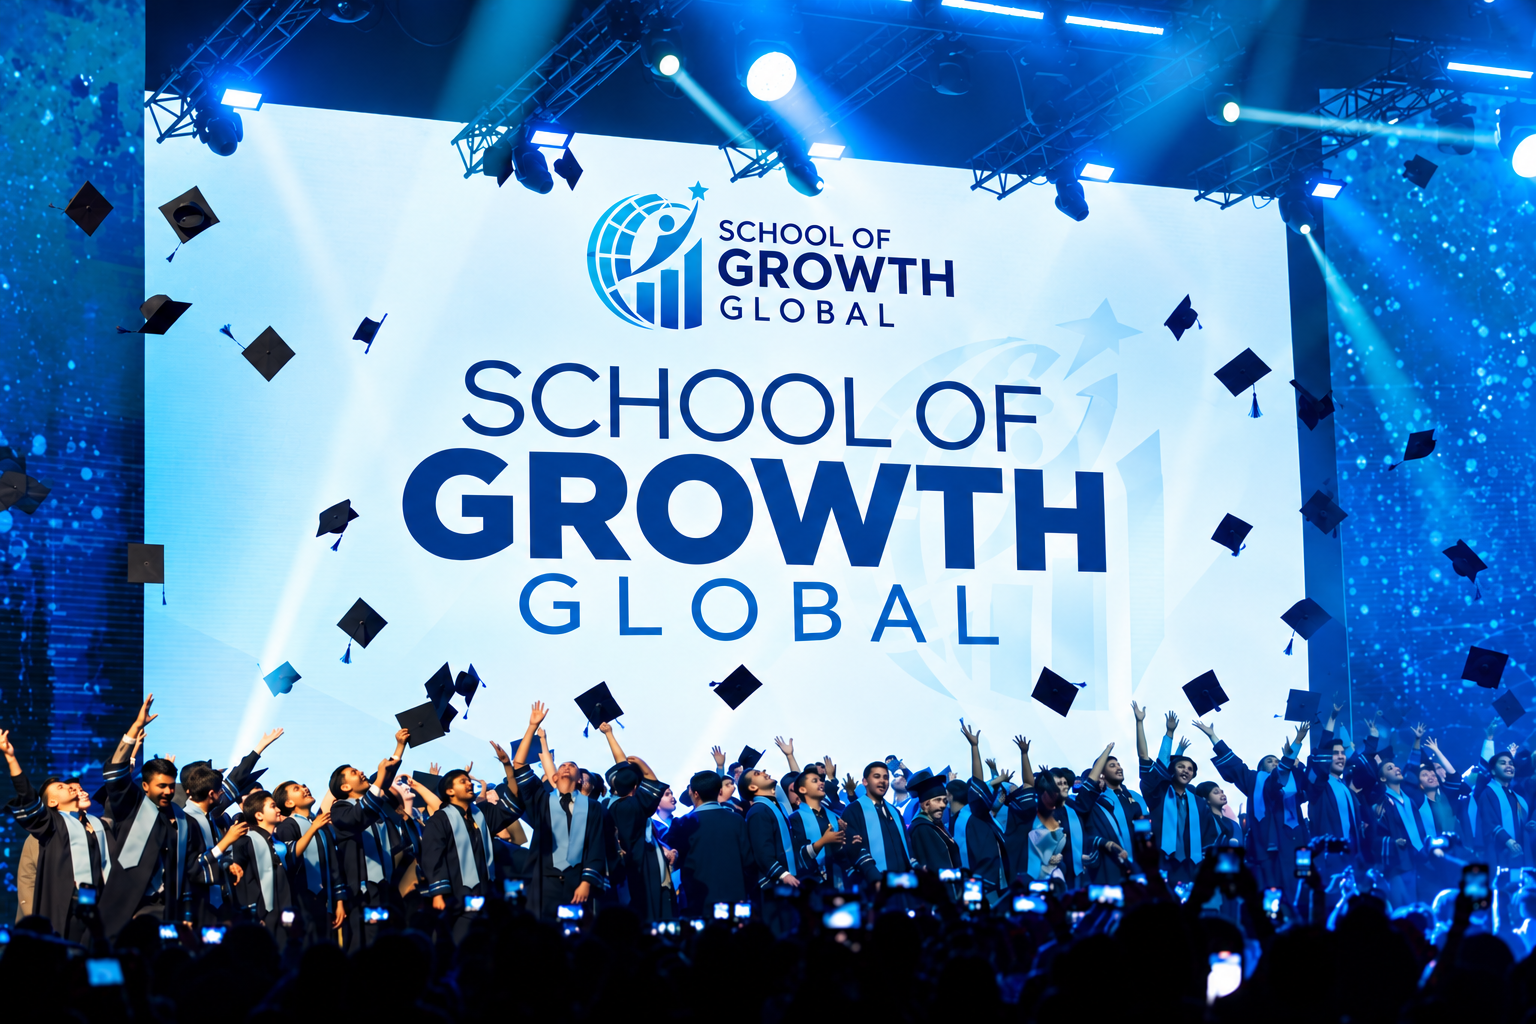
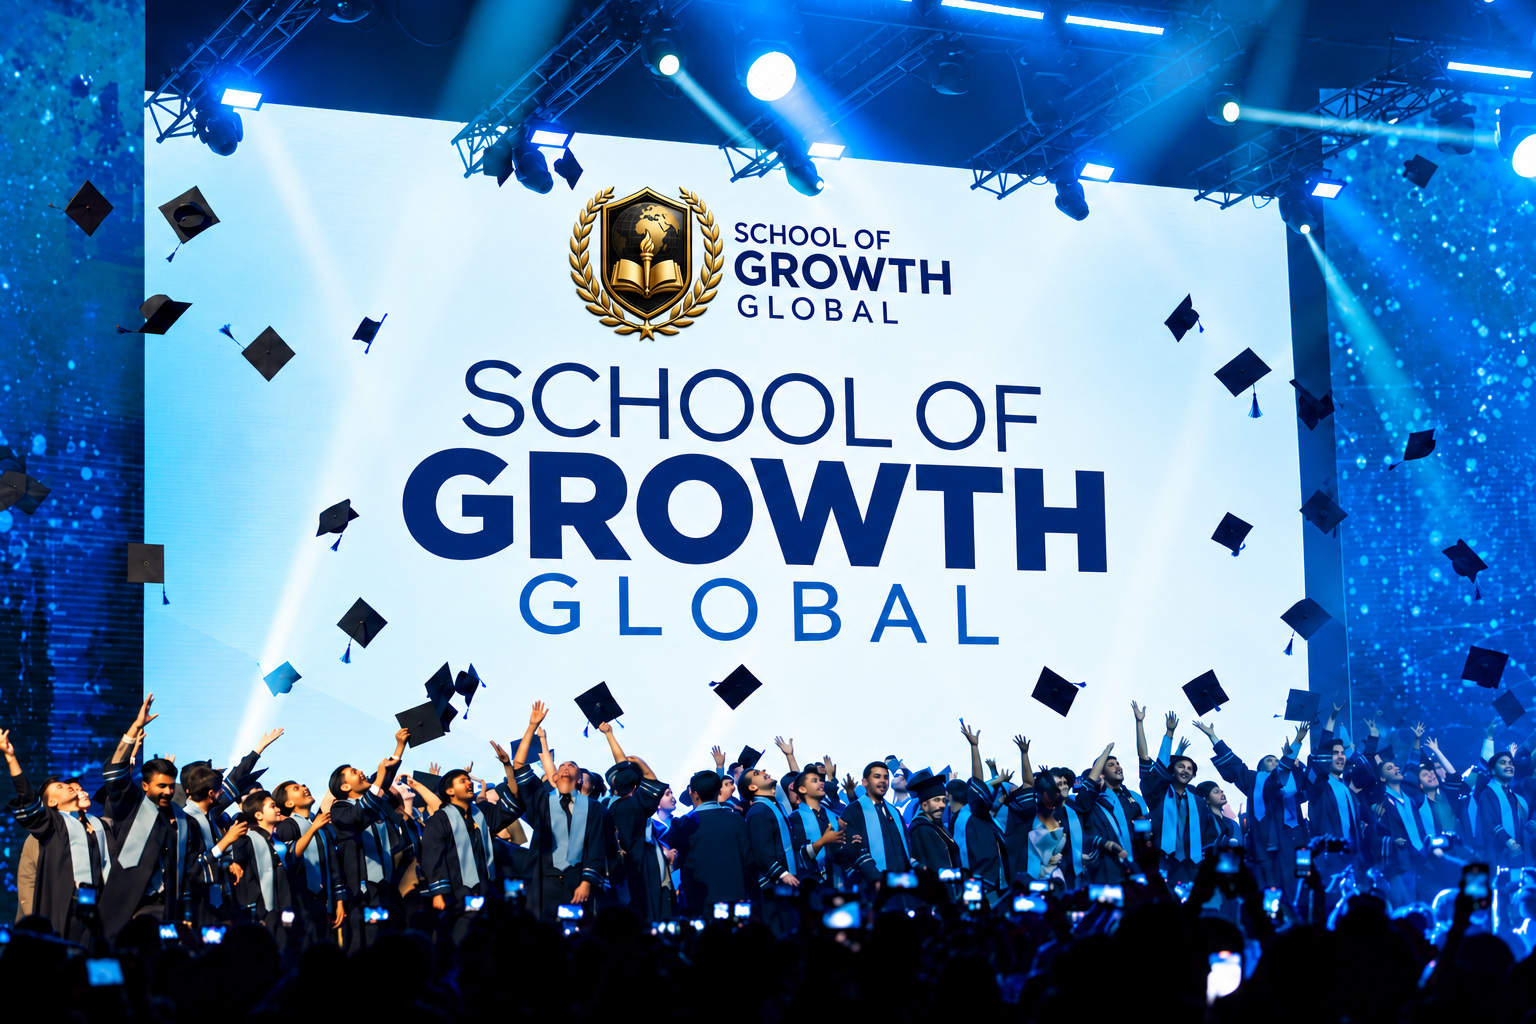
Restore missing faculties and correct conference branding
Restore Governance and Relationships & Family as their own faculty groups while preserving school numbers, course IDs and enrolment links. Show all schools by default, add direct faculty navigation and display earlier school names.

Replace the conference image's incorrect emblem with the supplied official gold crest and refresh its image URL.

Validated with catalogue regression tests, TypeScript, a production build and desktop/mobile browser checks.

diff --git a/src/views/SchoolsFacultiesView.tsx b/src/views/SchoolsFacultiesView.tsx
@@ -13,15 +13,19 @@ function SchoolDetails({ school }: { school: FacultySchool }) {
           {note}
         </p>
       ))}
-      <p className="mb-3 text-xs font-semibold text-amber-800">Courses and subject areas</p>
-      <ol className="grid list-decimal gap-2 pl-5 text-sm leading-6 text-slate-600 marker:text-amber-700">
-        {school.courses.map(course => {
-          const entry = getAcademicCourse(course);
-          return <li key={entry?.key ?? course} data-academic-course={entry?.key} className="pl-1 [overflow-wrap:anywhere]">
-            {entry?.href ? <Link to={entry.href} className="font-semibold text-amber-900 underline decoration-amber-300 underline-offset-4 hover:text-amber-700">{course}</Link> : course}
-          </li>;
-        })}
-      </ol>
+      {school.courses.length > 0 ? (
+        <>
+          <p className="mb-3 text-xs font-semibold text-amber-800">Courses and subject areas</p>
+          <ol className="grid list-decimal gap-2 pl-5 text-sm leading-6 text-slate-600 marker:text-amber-700">
+            {school.courses.map(course => {
+              const entry = getAcademicCourse(course);
+              return <li key={entry?.key ?? course} data-academic-course={entry?.key} className="pl-1 [overflow-wrap:anywhere]">
+                {entry?.href ? <Link to={entry.href} className="font-semibold text-amber-900 underline decoration-amber-300 underline-offset-4 hover:text-amber-700">{course}</Link> : course}
+              </li>;
+            })}
+          </ol>
+        </>
+      ) : <p className="text-sm leading-6 text-slate-600">Course information for this school is being prepared.</p>}
       {school.id === 'leadership' && <Link to="/courses/leadership" className="mt-4 inline-flex min-h-11 items-center gap-2 text-sm font-bold text-amber-800 hover:underline">Individual leadership course prices <ArrowRight className="h-4 w-4 shrink-0" aria-hidden="true" /></Link>}
     </div>
   );
@@ -31,7 +35,7 @@ export const SchoolsFacultiesView: React.FC<{ embedded?: boolean; searchQuery?: 
   const [localQuery, setLocalQuery] = useState('');
   const query = searchQuery ?? localQuery;
   const setQuery = onSearchQueryChange ?? setLocalQuery;
-  const [openFaculty, setOpenFaculty] = useState(embedded ? 0 : FACULTIES[0].number);
+  const [openFaculties, setOpenFaculties] = useState<number[]>(() => FACULTIES.map(faculty => faculty.number));
   const [openSchool, setOpenSchool] = useState<number | null>(null);
   const normalizedQuery = query.trim().toLowerCase();
 
@@ -41,6 +45,7 @@ export const SchoolsFacultiesView: React.FC<{ embedded?: boolean; searchQuery?: 
     })).filter(faculty => faculty.schools.length > 0),
     [normalizedQuery, schoolId]
   );
+  const filtering = Boolean(normalizedQuery || schoolId);
 
   return (
     <div className="min-h-screen bg-slate-50 text-slate-900">
@@ -88,15 +93,42 @@ export const SchoolsFacultiesView: React.FC<{ embedded?: boolean; searchQuery?: 
         </div>
       </section>
 
+      {visibleFaculties.length > 0 && <section className="border-b border-slate-200 bg-white" aria-label="Faculty directory navigation">
+        <div className={`mx-auto max-w-7xl py-6 ${embedded ? '' : 'px-4 sm:px-6 lg:px-8'}`}>
+          <p className="text-sm font-semibold text-slate-950">Browse faculties</p>
+          <nav aria-label="Browse faculties" data-faculty-index className="mt-4 grid gap-x-8 gap-y-3 sm:grid-cols-2 lg:grid-cols-3">
+            {visibleFaculties.map(faculty => <a
+              key={faculty.number}
+              href={`#faculty-${faculty.number}`}
+              onClick={() => setOpenFaculties(current => current.includes(faculty.number) ? current : [...current, faculty.number])}
+              className="flex min-h-11 items-start gap-3 border-l-2 border-amber-300 py-1 pl-3 text-sm leading-6 text-slate-700 hover:border-amber-500 hover:text-amber-800 focus-visible:outline-2 focus-visible:outline-offset-4 focus-visible:outline-amber-500"
+            >
+              <span className="shrink-0 font-mono text-xs font-bold leading-6 text-[#ff9700]">{String(faculty.displayNumber ?? faculty.number).padStart(2, '0')}</span>
+              <span className="min-w-0 capitalize [overflow-wrap:anywhere]">{faculty.title.toLowerCase()}</span>
+            </a>)}
+          </nav>
+          {!filtering && <div className="mt-5 flex flex-wrap gap-3 border-t border-slate-100 pt-4">
+            <button type="button" onClick={() => setOpenFaculties(FACULTIES.map(faculty => faculty.number))}
+              disabled={visibleFaculties.every(faculty => openFaculties.includes(faculty.number))}
+              className="min-h-11 border border-amber-300 bg-amber-50 px-4 py-2 text-sm font-semibold text-amber-900 hover:bg-amber-100 disabled:cursor-default disabled:opacity-50">Show all schools</button>
+            <button type="button" onClick={() => setOpenFaculties([])} disabled={openFaculties.length === 0}
+              className="min-h-11 border border-slate-300 bg-white px-4 py-2 text-sm font-semibold text-slate-700 hover:bg-slate-50 disabled:cursor-default disabled:opacity-50">Collapse faculties</button>
+          </div>}
+        </div>
+      </section>}
+
       <div data-academic-directory className={`mx-auto max-w-7xl space-y-4 py-10 sm:py-14 ${embedded ? '' : 'px-4 sm:px-6 lg:px-8'}`}>
         {visibleFaculties.map((faculty) => {
-          const isOpen = openFaculty === faculty.number || Boolean(normalizedQuery) || Boolean(schoolId);
+          const isOpen = openFaculties.includes(faculty.number) || filtering;
           return (
-            <section key={faculty.number} data-faculty-number={faculty.number} data-faculty-display-number={faculty.displayNumber ?? faculty.number} className="overflow-hidden border border-slate-200 bg-white shadow-[0_8px_26px_rgba(15,23,42,0.04)]">
+            <section id={`faculty-${faculty.number}`} key={faculty.number} data-faculty-number={faculty.number} data-faculty-display-number={faculty.displayNumber ?? faculty.number} className="scroll-mt-24 overflow-hidden border border-slate-200 bg-white shadow-[0_8px_26px_rgba(15,23,42,0.04)]">
+              <h3>
               <button
                 type="button"
-                onClick={() => setOpenFaculty(isOpen ? 0 : faculty.number)}
+                onClick={() => setOpenFaculties(current => current.includes(faculty.number) ? current.filter(number => number !== faculty.number) : [...current, faculty.number])}
                 aria-expanded={isOpen}
+                aria-controls={`faculty-${faculty.number}-schools`}
+                disabled={filtering}
                 className="flex w-full items-center justify-between gap-5 px-4 py-5 text-left transition hover:bg-amber-50/40 sm:px-6 sm:py-6"
               >
                 <span className="flex min-w-0 items-start gap-3 sm:gap-4">
@@ -110,31 +142,34 @@ export const SchoolsFacultiesView: React.FC<{ embedded?: boolean; searchQuery?: 
                 </span>
                 <ChevronDown className={`h-5 w-5 shrink-0 text-amber-700 transition-transform ${isOpen ? 'rotate-180' : ''}`} />
               </button>
+              </h3>
 
               {isOpen && (
-                <div className="border-t border-slate-200 px-3 py-3 sm:px-5 sm:py-5">
+                <div id={`faculty-${faculty.number}-schools`} className="border-t border-slate-200 px-3 py-3 sm:px-5 sm:py-5">
                   <p className="mb-5 text-sm leading-6 text-slate-600"><strong className="font-semibold text-slate-800">Purpose: </strong>{faculty.purpose}</p>
                   <div className="grid items-start gap-3 lg:grid-cols-2">
                     {faculty.schools.map((school) => {
                       const schoolOpen = openSchool === school.number || Boolean(normalizedQuery) || schoolId === school.id;
-                      const hasDetails = Boolean(
-                        school.notes.length || school.courses.length
-                      );
+                      const alternateNames = school.aliases.filter(name => name !== school.title);
                       return (
                         <div key={school.number} data-school-id={school.id} className="min-w-0 overflow-hidden border border-slate-200 bg-white">
                           <button
                             type="button"
                             onClick={() => setOpenSchool(schoolOpen ? null : school.number)}
                             aria-expanded={schoolOpen}
+                            aria-controls={`school-${school.id}-details`}
                             className="flex w-full items-center justify-between gap-4 px-4 py-4 text-left transition hover:bg-slate-50"
                           >
                             <span className="flex min-w-0 items-start gap-3">
                               <span className="font-mono text-[11px] text-amber-700">{String(school.number).padStart(2, '0')}</span>
-                              <span className="min-w-0 text-sm font-semibold leading-6 text-slate-800 [overflow-wrap:anywhere]">{school.title}</span>
+                              <span className="min-w-0 [overflow-wrap:anywhere]">
+                                <span className="block text-sm font-semibold leading-6 text-slate-800">{school.title}</span>
+                                {alternateNames.length > 0 && <span className="mt-1 block text-xs leading-5 text-slate-500">Also listed as: {alternateNames.join('; ')}</span>}
+                              </span>
                             </span>
-                            {hasDetails && <ChevronDown className={`h-4 w-4 shrink-0 text-slate-400 transition-transform ${schoolOpen ? 'rotate-180' : ''}`} />}
+                            <ChevronDown className={`h-4 w-4 shrink-0 text-slate-400 transition-transform ${schoolOpen ? 'rotate-180' : ''}`} />
                           </button>
-                          {schoolOpen && hasDetails && <SchoolDetails school={school} />}
+                          {schoolOpen && <div id={`school-${school.id}-details`}><SchoolDetails school={school} /></div>}
                         </div>
                       );
                     })}

diff --git a/src/lib/academicCatalogue.ts b/src/lib/academicCatalogue.ts
@@ -25,8 +25,8 @@ const destinations: Record<number, [number, string?]> = {
   7: [4], 8: [4, 'management-and-organizational-development'], 9: [7], 10: [4],
   11: [10], 12: [10], 13: [10], 14: [10], 15: [10], 16: [10],
   17: [10], 18: [10], 19: [10], 20: [10], 21: [10],
-  22: [8, 'governance-and-public-administration'], 23: [8], 24: [8], 25: [8], 26: [8],
-  27: [8, 'governance-and-public-administration'], 28: [8], 29: [8],
+  22: [12, 'governance-and-public-administration'], 23: [12], 24: [12], 25: [12], 26: [12],
+  27: [12, 'governance-and-public-administration'], 28: [12], 29: [12],
   30: [11], 31: [11], 32: [11], 33: [11],
   34: [2, 'entrepreneurship-and-business-creation'], 35: [2],
   36: [2, 'marketing-sales-and-business-development'], 37: [3],
@@ -35,8 +35,8 @@ const destinations: Record<number, [number, string?]> = {
   44: [4, 'human-resources-and-talent-management'], 45: [4, 'project-and-programme-management'],
   46: [7, 'communication-and-public-speaking'], 47: [5], 48: [1],
   49: [1, 'artificial-intelligence'], 50: [7, 'media-branding-and-public-relations'],
-  51: [6], 52: [6], 53: [6], 54: [4], 55: [4],
-  56: [6, 'emotional-intelligence-and-human-relations'], 57: [8],
+  51: [13], 52: [13], 53: [13], 54: [13], 55: [13],
+  56: [13, 'emotional-intelligence-and-human-relations'], 57: [8],
   58: [8, 'research-and-critical-thinking'], 59: [4], 60: [1], 61: [8], 62: [8],
 };
 
@@ -51,7 +51,21 @@ export function buildAcademicCatalogue() {
   for (const [number, title, purpose] of [
     [10, previous.faculties[2].title, 'Develop biblical leadership, ministry, discipleship and stewardship skills for responsible service, spiritual formation and community impact.'],
     [11, previous.faculties[4].title, 'Develop the capabilities to serve communities, lead humanitarian programmes and build accountable nonprofit organizations.'],
+    [12, previous.faculties[3].title, 'Develop public leaders, policymakers and administrators who strengthen governance, serve citizens and build accountable institutions.'],
+    [13, previous.faculties[7].title, 'Strengthen relationships, families and human development through social intelligence, responsible leadership and support across life stages.'],
   ] as const) faculties.push({ number, title, purpose, schools: [], aliases: [] });
+
+  // Restore these faculty headings without creating duplicate schools or
+  // changing the IDs and numbers used by existing courses and enrolments.
+  for (const [schoolId, facultyNumber] of [
+    ['governance-and-public-administration', 12],
+    ['emotional-intelligence-and-human-relations', 13],
+  ] as const) {
+    const currentFaculty = faculties.find(faculty => faculty.schools.some(school => school.id === schoolId))!;
+    const school = currentFaculty.schools.find(school => school.id === schoolId)!;
+    currentFaculty.schools = currentFaculty.schools.filter(school => school.id !== schoolId);
+    faculties.find(faculty => faculty.number === facultyNumber)!.schools.push(school);
+  }
 
   const schools = new Map(faculties.flatMap(faculty => faculty.schools.map(school => [school.id, school] as const)));
   const courses = new Map<string, AcademicCourse>();

diff --git a/src/lib/courseCatalogueRestoration.test.ts b/src/lib/courseCatalogueRestoration.test.ts
@@ -18,6 +18,30 @@ test('the restored directory includes the original Kingdom and humanitarian scho
   assert.ok(searchFacultyCatalogue('Refugee').length);
 });
 
+test('Governance has its own visible faculty with all of its earlier school names', () => {
+  const originalFaculty = original.faculties.find(faculty => faculty.title.startsWith('GOVERNANCE,'))!;
+  const restoredFaculty = FACULTIES.find(faculty => faculty.title === originalFaculty.title);
+  assert.ok(restoredFaculty, 'Governance must be a faculty heading, not only a search alias under Research');
+  for (const school of originalFaculty.schools) {
+    assert.ok(restoredFaculty.schools.some(entry => [entry.title, ...entry.aliases].includes(school.title)), school.title);
+  }
+  assert.ok(restoredFaculty.schools.some(school => school.id === 'governance-and-public-administration'));
+  for (const id of ['governance-001', 'governance-005', 'governance-013', 'governance-014', 'governance-015']) {
+    const course = ACADEMIC_COURSES.find(course => course.courseId === id);
+    assert.ok(course?.href?.includes(id), id);
+    assert.ok(restoredFaculty.schools.some(school => school.id === course.schoolId), id);
+  }
+});
+
+test('Relationships and Family has its own visible faculty with its earlier schools', () => {
+  const originalFaculty = original.faculties.find(faculty => faculty.title.startsWith('RELATIONSHIPS,'))!;
+  const restoredFaculty = FACULTIES.find(faculty => faculty.title === originalFaculty.title);
+  assert.ok(restoredFaculty, 'Relationships and Family must be a faculty heading, not hidden under Personal Growth or Leadership');
+  for (const school of originalFaculty.schools) {
+    assert.ok(restoredFaculty.schools.some(entry => [entry.title, ...entry.aliases].includes(school.title)), school.title);
+  }
+});
+
 test('every updated school retains its published ID, number and title', () => {
   for (const school of updated.faculties.flatMap(faculty => faculty.schools)) {
     const found = SCHOOL_CATALOGUE.find(entry => entry.id === school.id);

diff --git a/src/views/EventsView.tsx b/src/views/EventsView.tsx
@@ -42,7 +42,7 @@ export const EventsView: React.FC = () => {
             </a>
           </div>
           <div className="overflow-hidden rounded-2xl border border-slate-200 bg-slate-950 shadow-2xl shadow-slate-950/15">
-            <img src="/scenes/events-hero-graduation.jpg" alt="Graduates celebrating at a School of Growth Global conference" className="block h-auto max-h-[38rem] w-full object-contain" />
+            <img src="/scenes/events-hero-graduation.jpg?v=official-crest-20261116" alt="Graduates celebrating at a School of Growth Global conference with the official gold crest" className="block h-auto max-h-[38rem] w-full object-contain" />
           </div>
         </div>
       </section>
